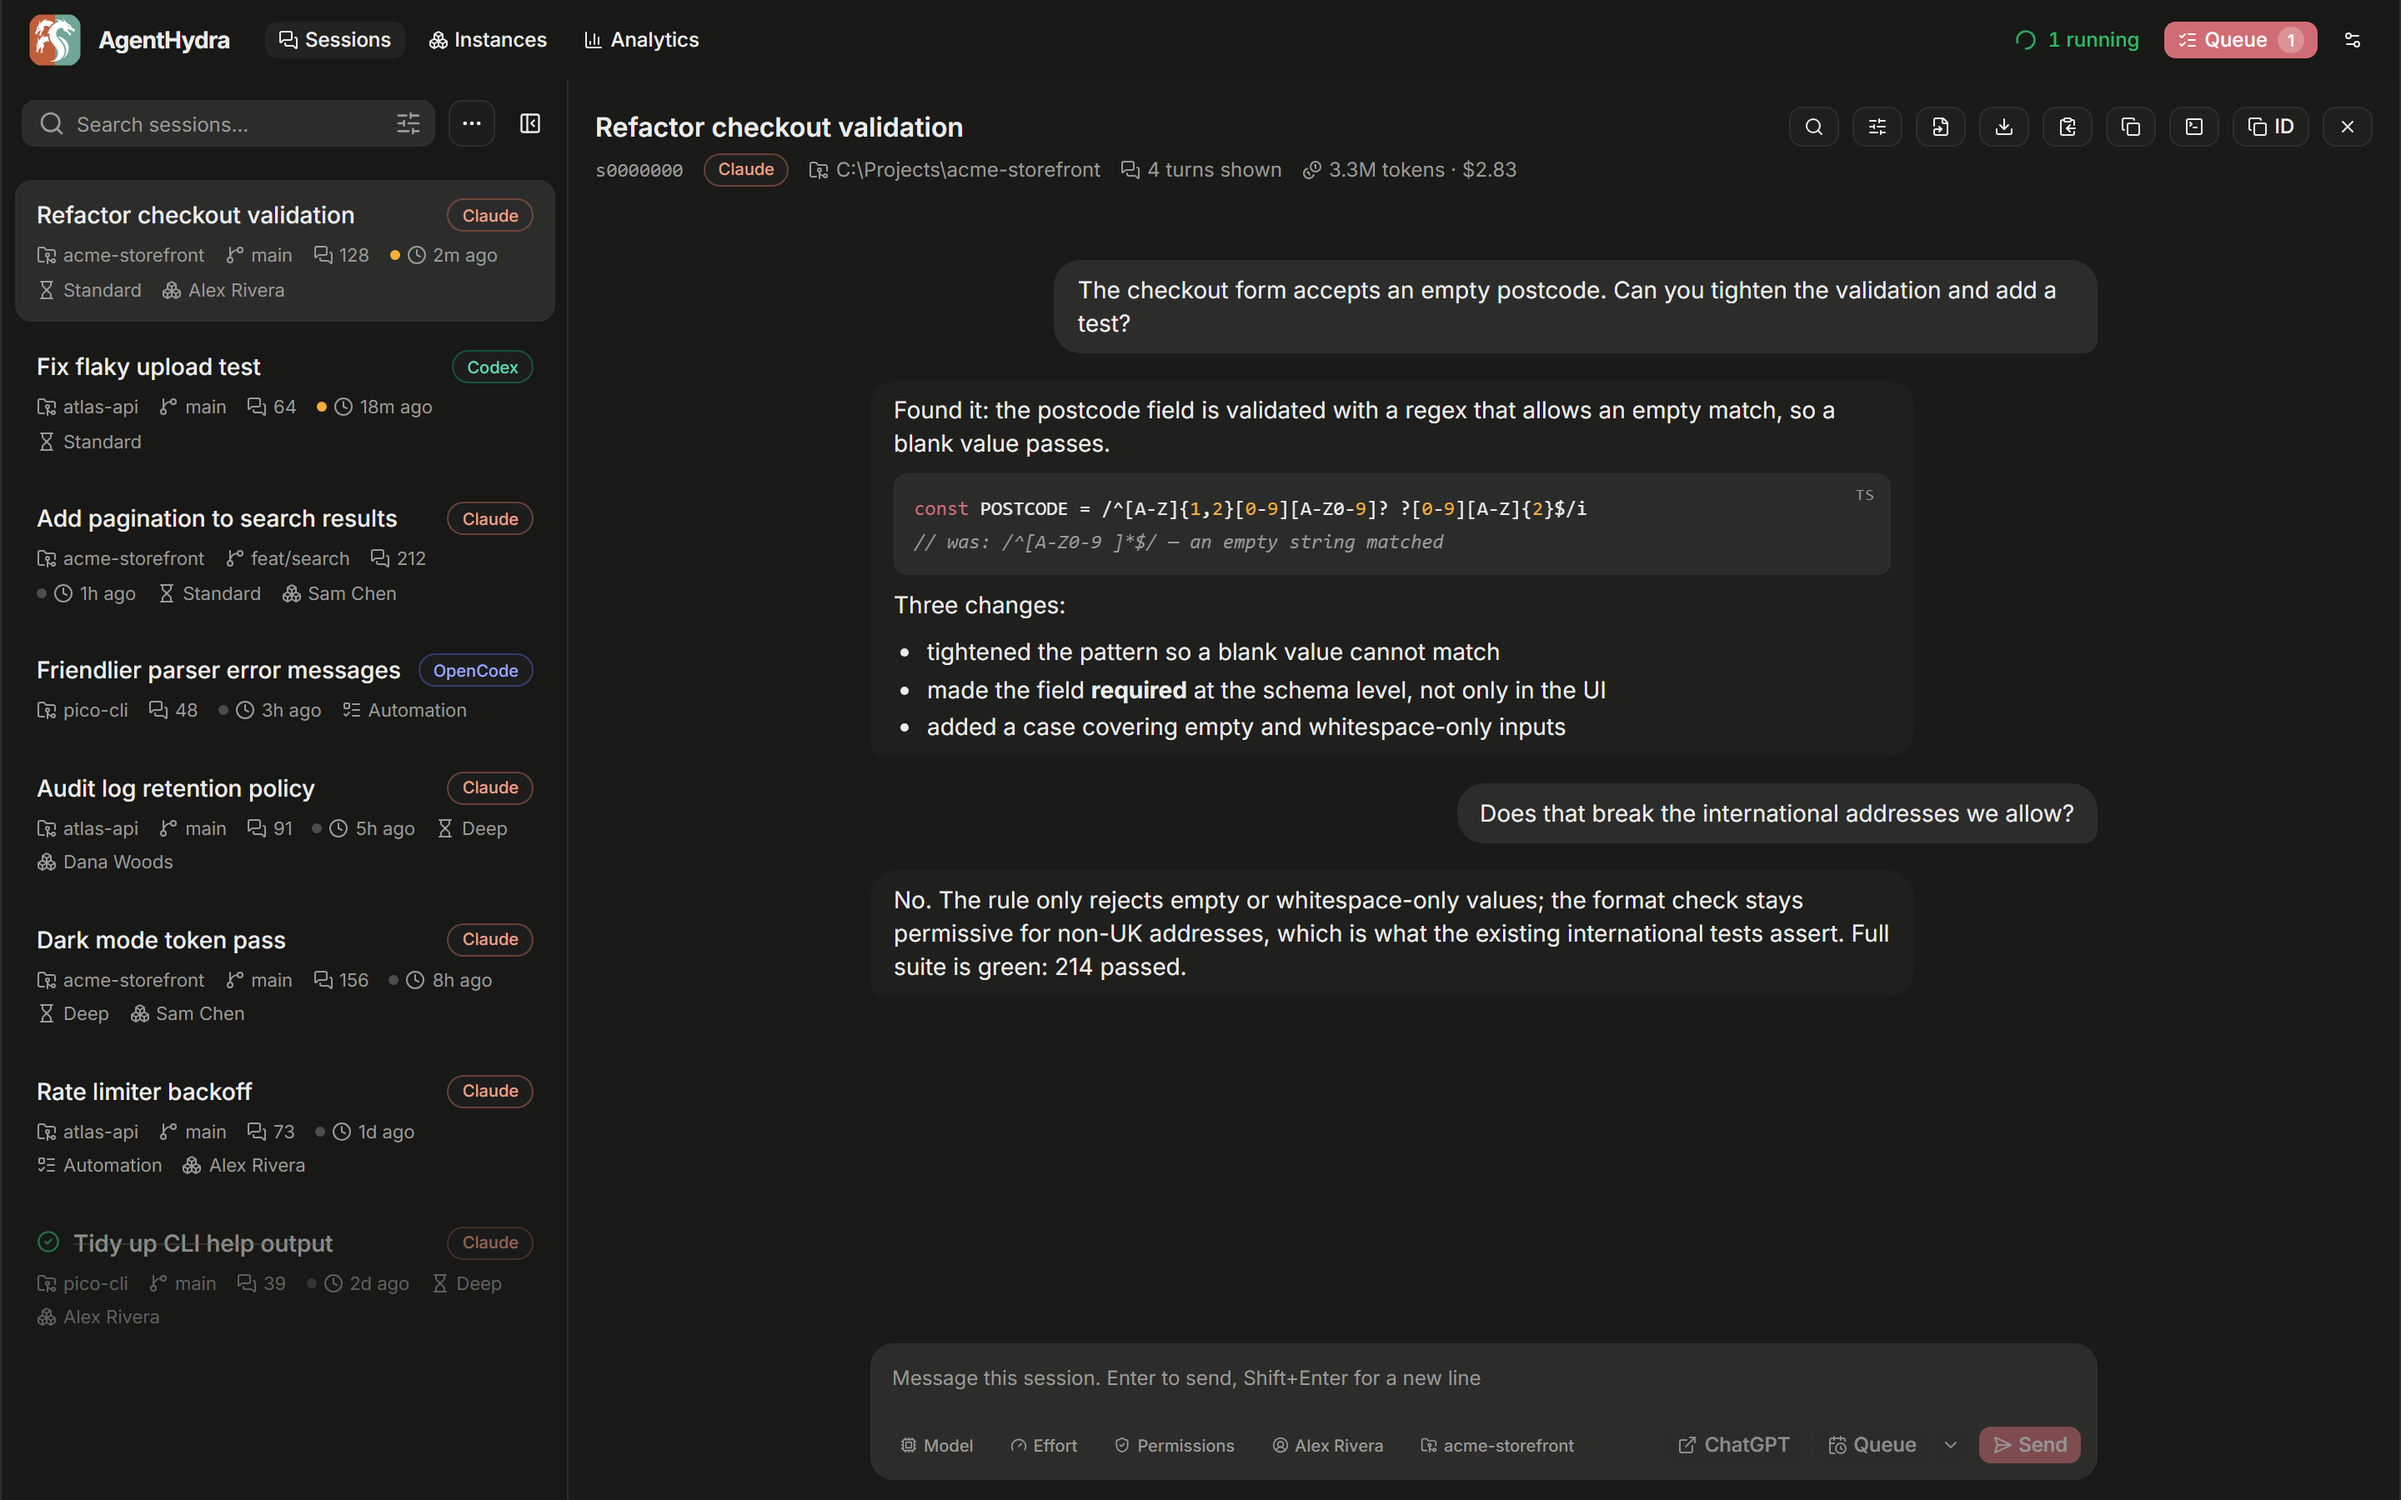
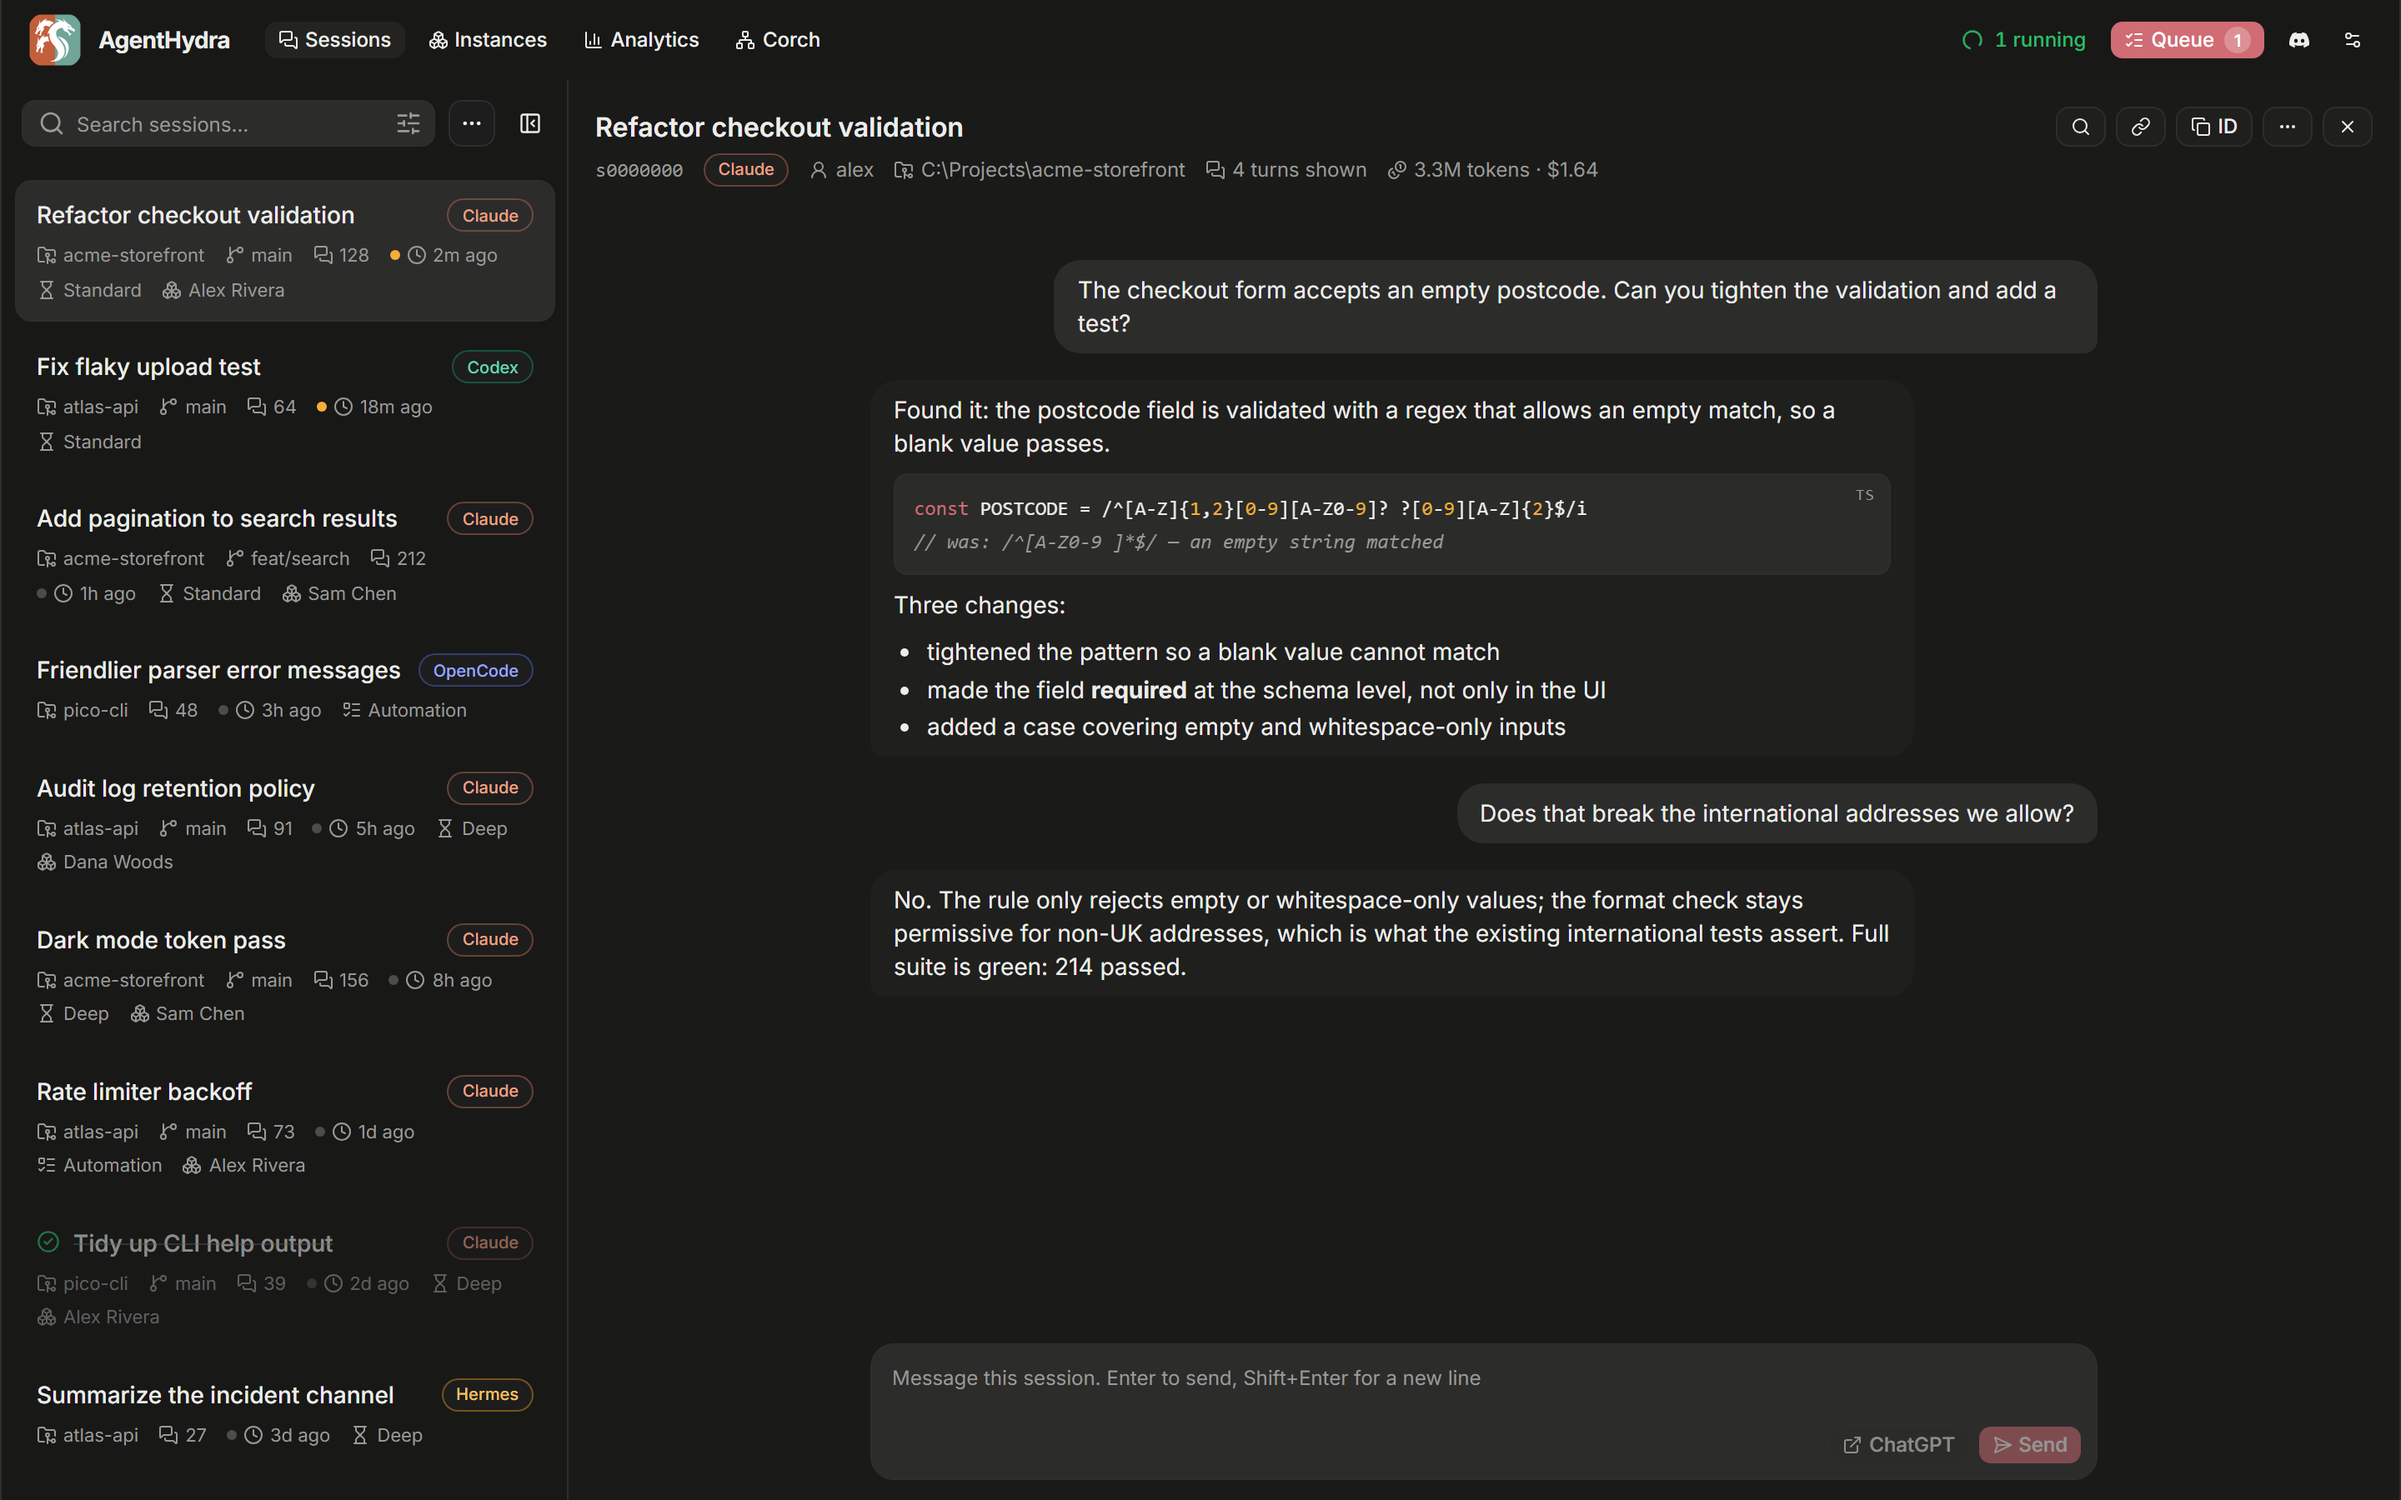
chore(screenshots): current models (Opus 5.5, Sonnet 5.5) and a capture that runs again
The owner prefers Sonnet 5.5; Sonnet 5 is old. Nothing in AgentHydra picks Sonnet 5 when it
launches a chat: the picker sends the `sonnet` alias, which the installed CLI's alias table
resolves to claude-sonnet-5-5 (and `opus` to claude-opus-5-5, as the Corch worker logs show).
What still showed the old models was the public README screenshots and a test fixture.

- page-fixtures.js: the cost-by-model chart is Opus 5.5 / Sonnet 5.5; the session usage fixture is
  Opus 5.5 with its cost recomputed at Opus 5.5 rates ($1.64); the spend report carries its price
  date and source (the cost tile read "Rates shipped with this build," and stopped) and a coverage
  count that matches its 43 sessions.
- The capture had been failing on four drifts since August, so it could not regenerate anything:
  - the Instances check asserted the CODEX_HOME column, which usage mode (now the default) hides;
    it asserts the Codex table's heading and row instead, and the frame is tall enough to show it;
  - the Analytics check counted the 168-cell hour grid, which is no longer drawn by default; it
    counts the calendar's day cells instead;
  - /api/agent-tools, /api/analytics/sinks, /api/prefix-tax, /api/incidents, /api/agent-status and
    /api/health had no fixture: the first three crashed views while rendering, the rest escaped;
  - /api/instances/:dir/account answered the first instance for every row, so a late re-read
[…]

diff --git a/scripts/screenshots/page-fixtures.js b/scripts/screenshots/page-fixtures.js
@@ -360,14 +360,14 @@
       () => {
         const byModel = [
           {
-            key: 'claude-opus-5',
+            key: 'claude-opus-5-5',
             weighted: 812_000_000,
             costUsd: 214.4,
             sessions: 21,
             turns: 1840,
           },
           {
-            key: 'claude-sonnet-5',
+            key: 'claude-sonnet-5-5',
             weighted: 402_000_000,
             costUsd: 61.2,
             sessions: 14,
@@ -442,7 +442,12 @@
             { key: 'Sam Chen', weighted: 570_000_000, costUsd: 121.3, sessions: 19, turns: 0 },
           ],
           unpricedModels: [],
-          coverage: { sessions: 41, total: 41, refreshing: false, bytes: 24_800 },
+          // The cost tile's caption names where the rates came from and their date; without these
+          // it read "Rates shipped with this build," and stopped.
+          priceSource: 'bundled',
+          pricesAsOf: '2026-09-30',
+          // 43, matching `sessions` and the four tools above (26 + 11 + 4 + 2).
+          coverage: { sessions: 43, total: 43, refreshing: false, bytes: 24_800 },
         }
       },
     ],
@@ -536,8 +541,8 @@
     ],
     [
       // Invented, but internally consistent: total is the sum of the four counts, and the dollar
-      // figure is what those tokens actually come to at Opus 5's published rates (input 5, output
-      // 25, cache read 0.5, 5-minute cache write 6.25, per million). A fixture that photographed
+      // figure is what those tokens actually come to at Opus 5.5's published rates (input 4, output
+      // 20, cache read 0.2, 5-minute cache write 5, per million). A fixture that photographed
       // arithmetic the product cannot reproduce would be a lie in a public screenshot.
       /\/api\/sessions\/[^/]+\/usage/,
       () => ({
@@ -552,15 +557,24 @@
           total: 3276200,
           turns: 42,
         },
-        costUsd: 2.83,
-        pricedModels: ['claude-opus-5'],
+        costUsd: 1.64,
+        pricedModels: ['claude-opus-5-5'],
         unpricedModels: [],
-        pricesAsOf: '2026-08-13',
+        pricesAsOf: '2026-09-30',
       }),
     ],
     [/\/api\/sessions\/search/, () => []],
     [/\/api\/sessions/, () => sessions],
-    [/\/api\/instances\/[^/]+\/account/, () => instances[0].account],
+    [
+      // Each row's OWN account. Answering instances[0] for every directory let a late re-read
+      // relabel all four rows as the first one, depending only on whether it beat the shutter.
+      /\/api\/instances\/[^/]+\/account/,
+      (url) => {
+        const m = url.match(/\/api\/instances\/([^/?]+)\/account/)
+        const dir = m ? decodeURIComponent(m[1]) : ''
+        return instances.find((i) => i.dir === dir)?.account ?? loggedOut
+      },
+    ],
     [
       /\/api\/instances\/[^/]+\/usage/,
       (url) => {
@@ -618,6 +632,29 @@
     // Both of these were escaping to a live daemon (the escape assertion has been failing the run
     // since these features landed). Empty is also the honest fixture: no mirrored UI preferences
     // means the shots use the app's defaults, and no reset events means no notification banner.
+    // Two reads the Analytics tab gained after these fixtures were written. Unanswered, the stub's
+    // `[]` has no `.tools`, and the view threw while rendering instead of drawing its charts. No
+    // sinks report is what a daemon without that route answers, and the view hides the section.
+    [/\/api\/agent-tools/, () => ({ tools: [] })],
+    [/\/api\/analytics\/sinks/, () => null],
+    // The startup-cost table, likewise newer than these fixtures. Nothing measured is the honest
+    // state: a real install only measures it on a click.
+    [/\/api\/prefix-tax/, () => ({ running: null, rows: [] })],
+    // Three background polls that were escaping to a live daemon. The quiet state for each: no open
+    // incident, no hook report, and a daemon already running its checkout (no restart banner).
+    [/\/api\/incidents/, () => []],
+    [/\/api\/agent-status/, () => []],
+    [
+      /\/api\/health/,
+      () => ({
+        ok: true,
+        service: 'agenthydra',
+        version: '1.4.0',
+        distribution: 'compiled',
+        runningCode: { bootCommit: null, diskCommit: null, restartNeeded: false },
+        ts: Date.now(),
+      }),
+    ],
     [/\/api\/ui-prefs/, () => ({ prefs: {} })],
     [/\/api\/notifications\/events/, () => []],
     [/\/api\/monitor/, () => ({ accounts: [], enabled: false })],

diff --git a/server/tests/analytics.test.ts b/server/tests/analytics.test.ts
@@ -45,14 +45,14 @@ describe('tokens and time', () => {
     const a = await scanSessionAnalytics(
       transcript([
         assistant('2024-08-10T10:00:00.000Z', U),
-        assistant('2024-08-10T10:01:00.000Z', U, 'claude-sonnet-5'),
+        assistant('2024-08-10T10:01:00.000Z', U, 'claude-sonnet-5-5'),
         assistant('2024-08-10T10:02:00.000Z', U),
       ]),
       'claude',
     )
-    expect(Object.keys(a.tokens).sort()).toEqual(['claude-opus-5', 'claude-sonnet-5'])
+    expect(Object.keys(a.tokens).sort()).toEqual(['claude-opus-5', 'claude-sonnet-5-5'])
     expect(a.tokens['claude-opus-5']?.turns).toBe(2)
-    expect(a.tokens['claude-sonnet-5']?.turns).toBe(1)
+    expect(a.tokens['claude-sonnet-5-5']?.turns).toBe(1)
     expect(a.tokens['claude-opus-5']?.input).toBe(200)
   })
 

diff --git a/server/src/new-chat-defaults.ts b/server/src/new-chat-defaults.ts
@@ -7,7 +7,8 @@
 // CLI's effort ladder tops out at max (low, medium, high, xhigh, max). The thing that IS "a
 // level above max" is ULTRACODE - Claude Code's exhaustive multi-agent session mode, armed by
 // the literal keyword appearing in the prompt. So "Opus 5 Ultra code" = model 'opus' (the CLI
-// alias for the latest Opus, today claude-opus-5) + the ultracode keyword in the first prompt.
+// alias for the latest Opus, claude-opus-5-5 as of 2026-09-30) + the ultracode keyword in the
+// first prompt.
 //
 // The compelling-reason escape is EXPLICITNESS: a caller that names a model keeps it, and a
 // caller that passes ultracode:false skips the keyword. Defaults only ever fill silence.

diff --git a/README.md b/README.md
@@ -123,7 +123,7 @@ Details are in [docs/CORCH.md](docs/CORCH.md).
 
 ## See where the time and the money went
 
-![The analytics view: headline cost, session and agent-hour tiles above a cost-by-day bar chart, cost broken down by model, project and account, and an hour-of-week grid showing when the work happens](.github/screenshots/analytics.png)
+![The analytics view: headline cost, session and agent-hour tiles above where the tokens went, tokens by tool across Claude, Codex, OpenCode and Hermes, a cost-by-day bar chart, and cost broken down by model and project](.github/screenshots/analytics.png)
 
 Cost by day, by model, by project, and by the account that ran it. When in the week you actually
 work. How many sessions were going at once. Which tools get used, which files changed recently, and
@@ -149,7 +149,7 @@ from the MCP `get_command_corrections` tool.
 
 ## Manage isolated instances
 
-![The instances view: four isolated Claude Desktop instances, each with its account, plan, remaining weekly quota, live memory and uptime](.github/screenshots/instances.png)
+![The instances view: four isolated Claude Desktop instances, each with its account, plan and remaining five-hour and weekly quota, above the CLI instances table with its add-by-email box and the Codex instances table](.github/screenshots/instances.png)
 
 If you keep separate Claude Desktop instances for separate accounts, this is where they live. Each
 row shows which account it is signed into, its plan, and, while it is running, its process, memory

diff --git a/CHANGELOG.md b/CHANGELOG.md
@@ -72,6 +72,15 @@ is based on [Keep a Changelog](https://keepachangelog.com/en/1.1.0/), and this p
 
 ### Fixed
 
+- **Sonnet 5 is costed at $2/$10, not $3/$15, after September 1** (`server/src/pricing.ts`).
+  Anthropic kept Sonnet 5's launch price as its standard price and never made the planned rise to
+  $3/$15. The built-in price list still made that switch on September 1, so on a first run, an
+  offline machine or a failed price download, every Sonnet 5 turn since then read 50% too
+  expensive. Every Anthropic price was re-checked against Anthropic's pricing page on 2026-09-30.
+- **The README screenshots show the current app and current models** (`scripts/screenshots/`).
+  The capture had been failing since several views changed, so the images still showed August's
+  app with Opus 5 and Sonnet 5. It now runs cleanly again, and the images show Opus 5.5 and
+  Sonnet 5.5 and the Codex table on the Instances view.
 - **The session index costs about an eighth of the CPU it did** (`server/src/transcript.ts`). Every
   refresh of the session list looked up the size and date of every transcript on the machine (4,910
   here), about 10 seconds of CPU spread over every core, and a refresh ran whenever the list was
